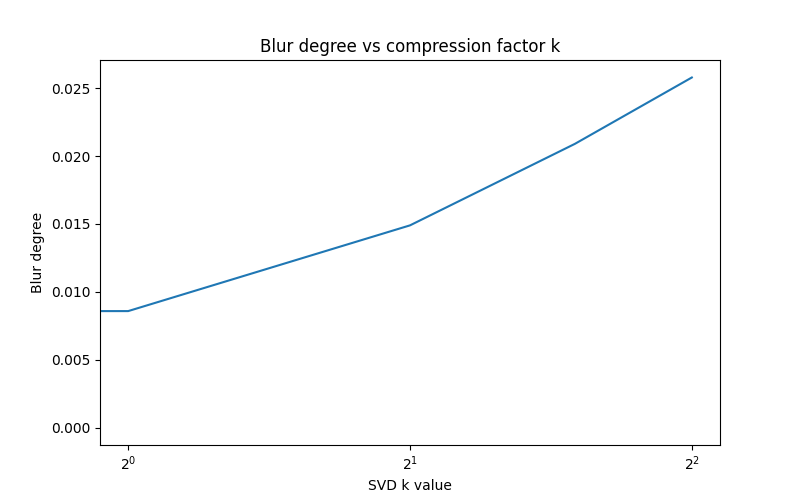
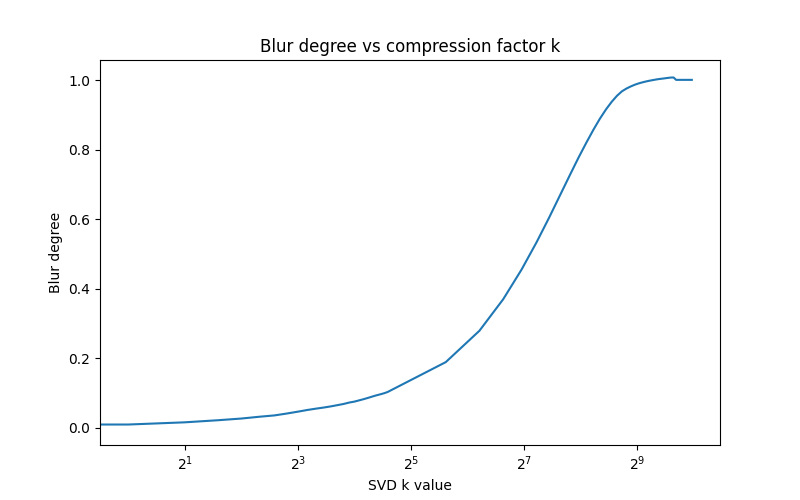
more changes

diff --git a/svd.py b/svd.py
@@ -2,7 +2,6 @@ from PIL import Image
 import numpy as np
 import os
 import matplotlib.pyplot as plt
-import cv2
 from laplacian_blur_degree import *
 
 #clarifying note: according to Google, Descartes invented linear algebra, which is why he has the honor of being a sample image
@@ -56,7 +55,7 @@ def create_svd_graphs(k_values, compression_ratios, blur_degrees):
     ax2.set_xlabel("SVD k value")
     ax2.set_ylabel("Blur degree")
 
-    ax3.set_xscale("log", base=2)
+    #ax3.set_xscale("log", base=2)
     ax3.plot(compression_ratios, blur_degrees)
     ax3.set_title("Compression Ratio vs. Blur Degree")
     ax3.set_xlabel("Compression Ratio")
@@ -85,8 +84,22 @@ def process_images_in_folder(folder_path,k_vals):
 
 
 def svd_driver(image_path,k_values):
-    original_blur = calculate_blur_degree(image_path)
-    original_size = os.path.getsize(image_path)
+
+    original_image = Image.open(image_path)
+
+    # Convert the image to a NumPy array
+    img_array = np.array(original_image)
+
+    uncompressed = Image.fromarray(img_array)
+
+    # Save the compressed image
+    uncompressed.save("./temp.png")
+
+
+    original_blur = calculate_blur_degree("./temp.png")
+    original_size = os.path.getsize("./temp.png")
+
+    os.remove("./temp.png")
 
     compression_ratios = []
     blur_degrees = []
@@ -105,7 +118,5 @@ def svd_driver(image_path,k_values):
 
 
 
-#process_images_in_folder("src_images",list(range(24))+list(range(24,2**10,25)))
-
-process_images_in_folder("src_images",list(range(5)))
+process_images_in_folder("src_images",list(range(24))+list(range(24,2**10,25)))
 
